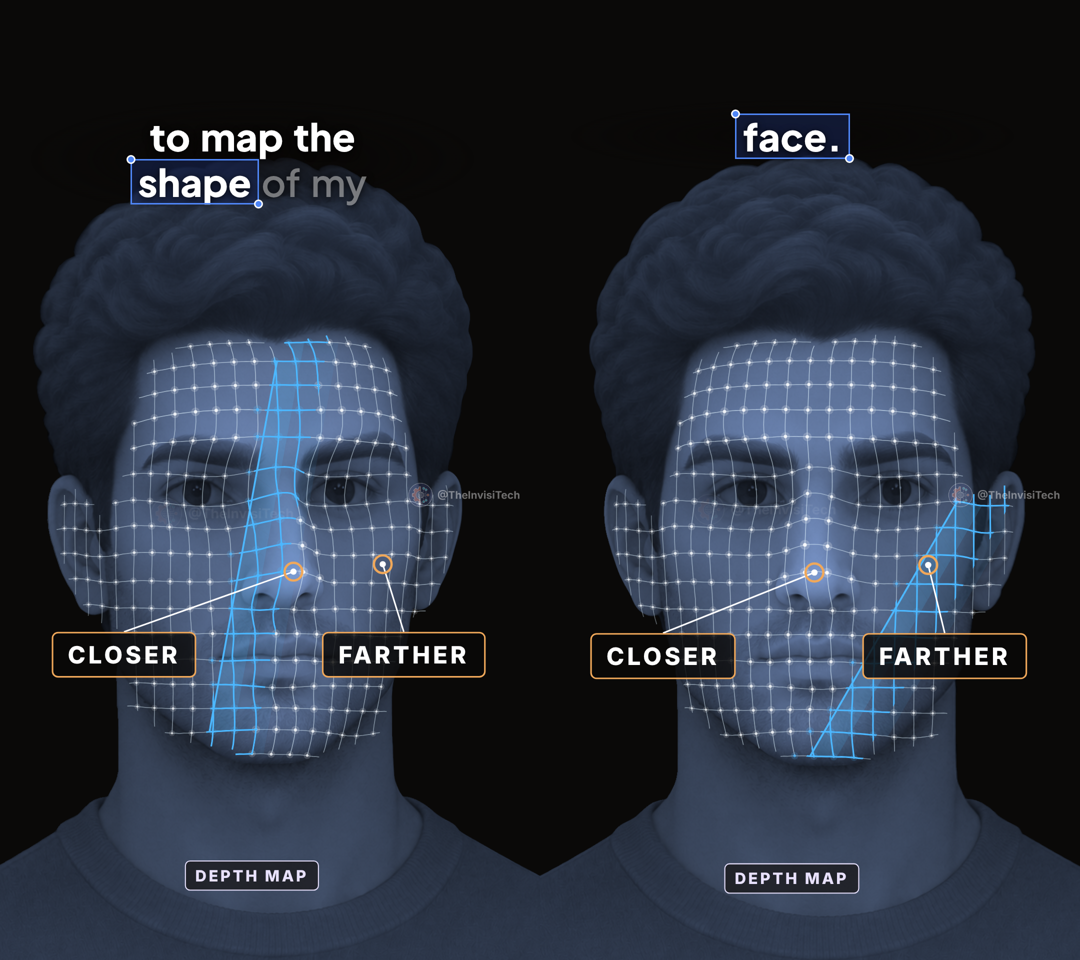
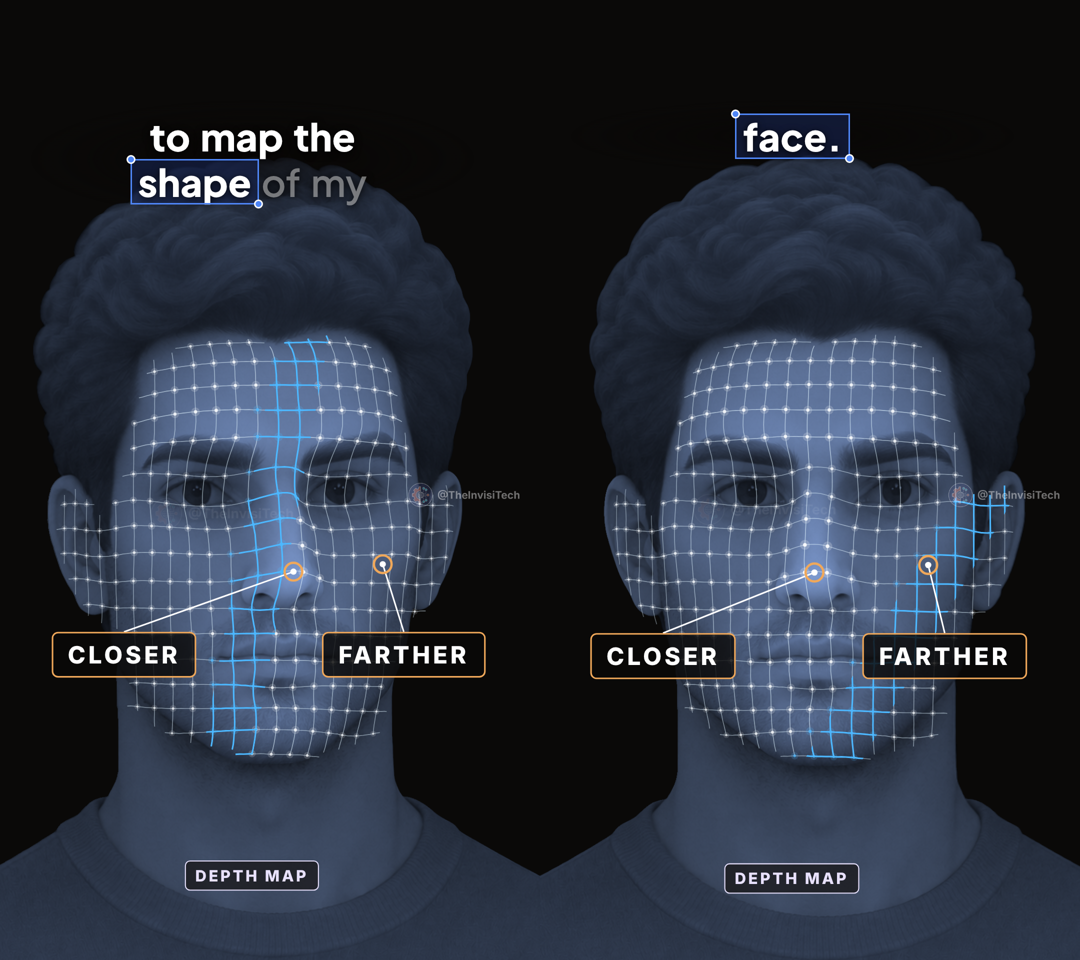
Mirror Short: depth scan only recolours the grid lines (no straight line or fill)
Claude-Session: https://claude.ai/code/session_01GXcKc5WnFrVWBsHLe8YpAy

Changed region(s): [[0.1833, 0.4688, 0.275, 0.7812], [0.825, 0.5, 0.9167, 0.6562], [0.7333, 0.6875, 0.825, 0.7812]]

diff --git a/face-id/mirror-short/src/scenes/Scan.tsx b/face-id/mirror-short/src/scenes/Scan.tsx
@@ -88,11 +88,6 @@ const FaceView: React.FC<{ s: number; depth0: number | null; flash: number | nul
               <g clipPath="url(#band-clip)">
                 {(mesh.lines as number[][][]).map((ln, i) => <polyline key={i} points={ln.map((q) => { const [x, y] = rel(q); return `${x.toFixed(1)},${y.toFixed(1)}`; }).join(' ')} fill="none" stroke={SCAN} strokeWidth={3} strokeLinejoin="round" />)}
               </g>
-              <g clipPath="url(#scan-clip)">
-                <polygon points={`${at(pb, -1200)} ${at(pb, 1200)} ${at(pb - 45, 1200)} ${at(pb - 45, -1200)}`} fill={SCAN} opacity={0.16} />
-                <polygon points={`${at(pb, -1200)} ${at(pb, 1200)} ${at(pb - 110, 1200)} ${at(pb - 110, -1200)}`} fill={SCAN} opacity={0.08} />
-                <polyline points={`${at(pb, -1200)} ${at(pb, 1200)}`} stroke={SCAN} strokeWidth={3.5} />
-              </g>
             </g>
             {/* the scan never leaves the web: it is clipped to the web's own triangles, so it follows the face as it moves */}
             <defs><clipPath id="band-clip"><polygon points={`${at(pb + 6, -1200)} ${at(pb + 6, 1200)} ${at(pb - 90, 1200)} ${at(pb - 90, -1200)}`} /></clipPath><clipPath id="scan-clip">{(mesh.tris as number[][]).map(([a, b, c], i) => <polygon key={i} points={`${L[a][0]},${L[a][1]} ${L[b][0]},${L[b][1]} ${L[c][0]},${L[c][1]}`} />)}</clipPath></defs>
